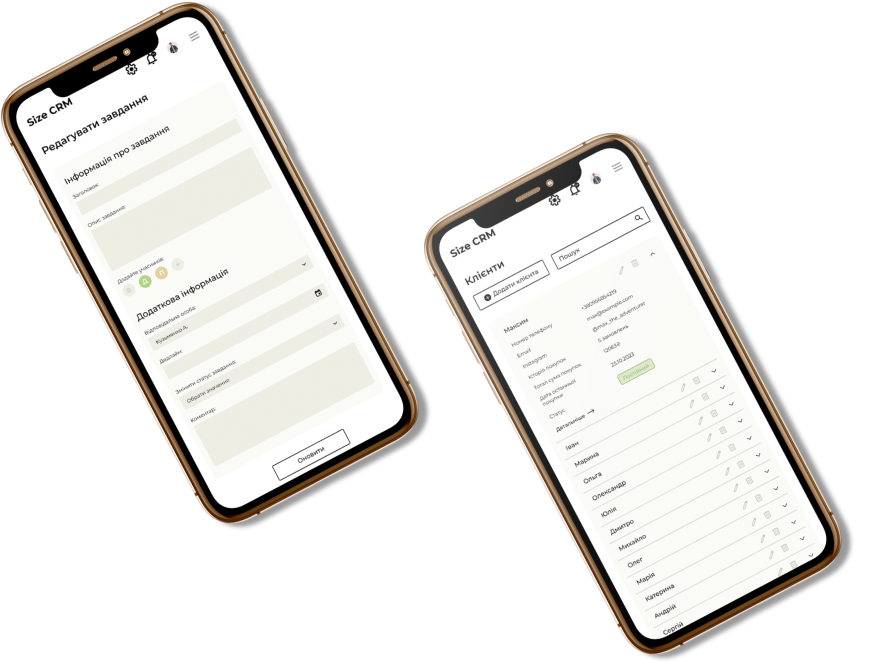
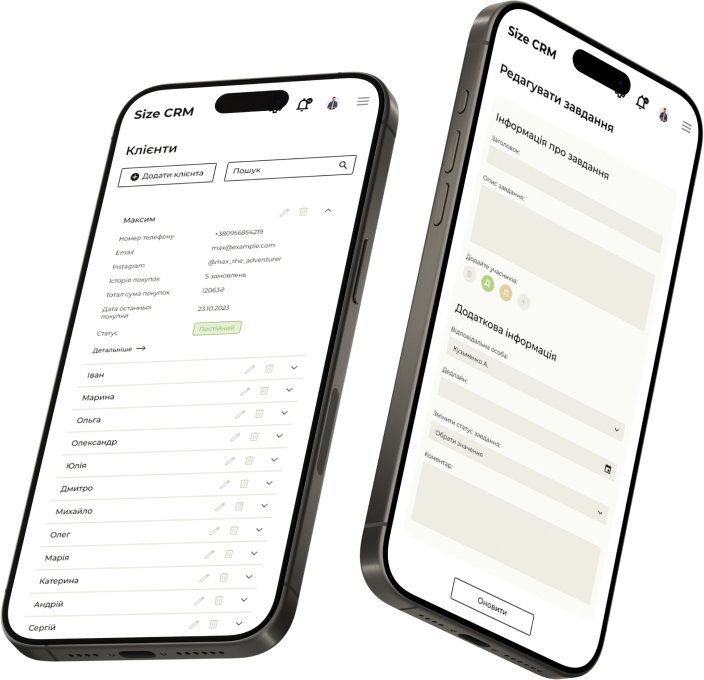
fix

diff --git a/pages/index.vue b/pages/index.vue
@@ -13,7 +13,7 @@
       <template #main_image>
         <img
           src="@img/main_phone.png"
-          class="w-full mt-[50px] self-center xl:mt-0 xl:max-w-full col-span-4 3xl:col-span-2 3xl:ml-[-300px] 3xl:mt-[-100px] 3xl:w-[600px] 4xl:max-w-[700px] 3xl:max-w-[700px] max-w-[400px]"
+          class="w-full mt-[50px] self-center xl:mt-0 xl:max-w-full col-span-4 3xl:col-span-2 3xl:ml-[-300px] 3xl:mt-[-100px] 3xl:w-[600px] 4xl:max-w-[500px] 3xl:max-w-[500px] max-w-[400px]"
           alt=""
         />
       </template>

diff --git a/components/common/SectionMain.vue b/components/common/SectionMain.vue
@@ -25,7 +25,7 @@ defineProps<{
         <div
           :class="
             cn(
-              'relative flex xl:grid grid-cols-12 flex-col xl:pt-[110px] 3xl:pt-[200px] pb-[100px] md:pb-[110px]',
+              'relative flex xl:grid grid-cols-12 flex-col xl:pt-[110px] 3xl:pt-[200px] ',
               {
                 'px-[19px] md:px-[40px] xl:px-[70px] pt-[60px]  md:pt-[90px] xl:pt-[110px] 3xl:pt-[200px]':
                   paddingContainer,

diff --git a/pages/opportunities.vue b/pages/opportunities.vue
@@ -46,7 +46,7 @@ const itemsHowItWork = [
         ></UiRadialGradientAbsolute>
       </template>
     </CommonSectionMain>
-    <div class="">
+    <div class="mt-[100px] md:mt-[110px]">
       <div class="container flex flex-col">
         <UiTitleSection class="text-center">Як це працює</UiTitleSection>
         <div
